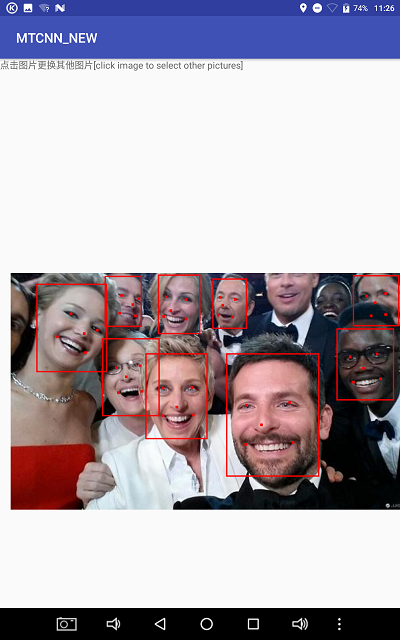
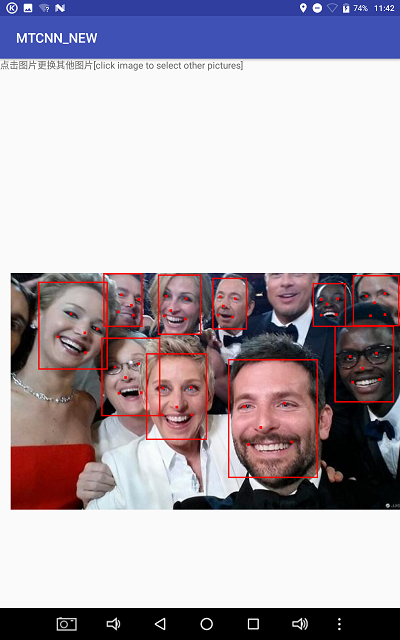
fimage

diff --git a/app/src/main/java/com/example/vcvyc/mtcnn_new/MTCNN.java b/app/src/main/java/com/example/vcvyc/mtcnn_new/MTCNN.java
@@ -26,7 +26,7 @@ import static java.lang.Math.scalb;
 
 public class MTCNN {
     //参数
-    private float factor=0.79f;
+    private float factor=0.709f;
     private float PNetThreshold=0.6f;
     private float RNetThreshold=0.7f;
     private float ONetThreshold=0.7f;
@@ -68,7 +68,6 @@ public class MTCNN {
         bitmap.getPixels(intValues,0,bitmap.getWidth(),0,0,bitmap.getWidth(),bitmap.getHeight());
         float imageMean=127.5f;
         float imageStd=128;
-        //Log.i(TAG,"[*]INPUT SIZE:"+w*h);
 
         for (int i=0;i<intValues.length;i++){
             final int val=intValues[i];

diff --git a/app/src/main/java/com/example/vcvyc/mtcnn_new/MainActivity.java b/app/src/main/java/com/example/vcvyc/mtcnn_new/MainActivity.java
@@ -41,7 +41,7 @@ public class MainActivity extends AppCompatActivity {
     public void processImage(){
         Bitmap bm= Utils.copyBitmap(bitmap);
         try {
-            Vector<Box> boxes=mtcnn.detectFaces(bm,80);
+            Vector<Box> boxes=mtcnn.detectFaces(bm,40);
             for (int i=0;i<boxes.size();i++){
                 Utils.drawRect(bm,boxes.get(i).transform2Rect());
                 Utils.drawPoints(bm,boxes.get(i).landmark);
